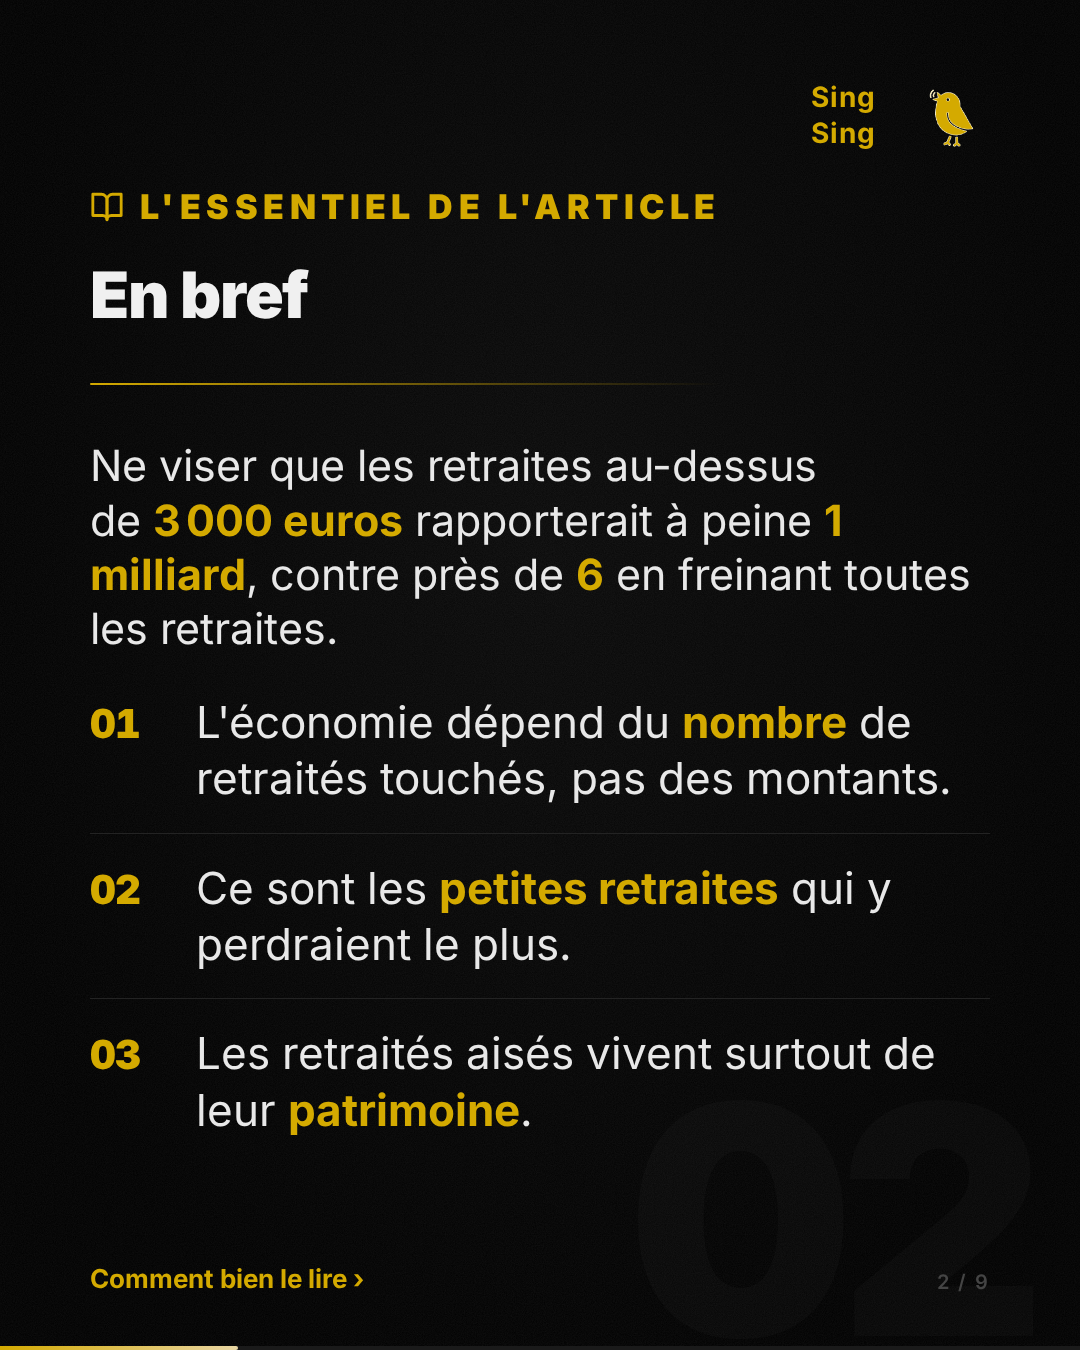
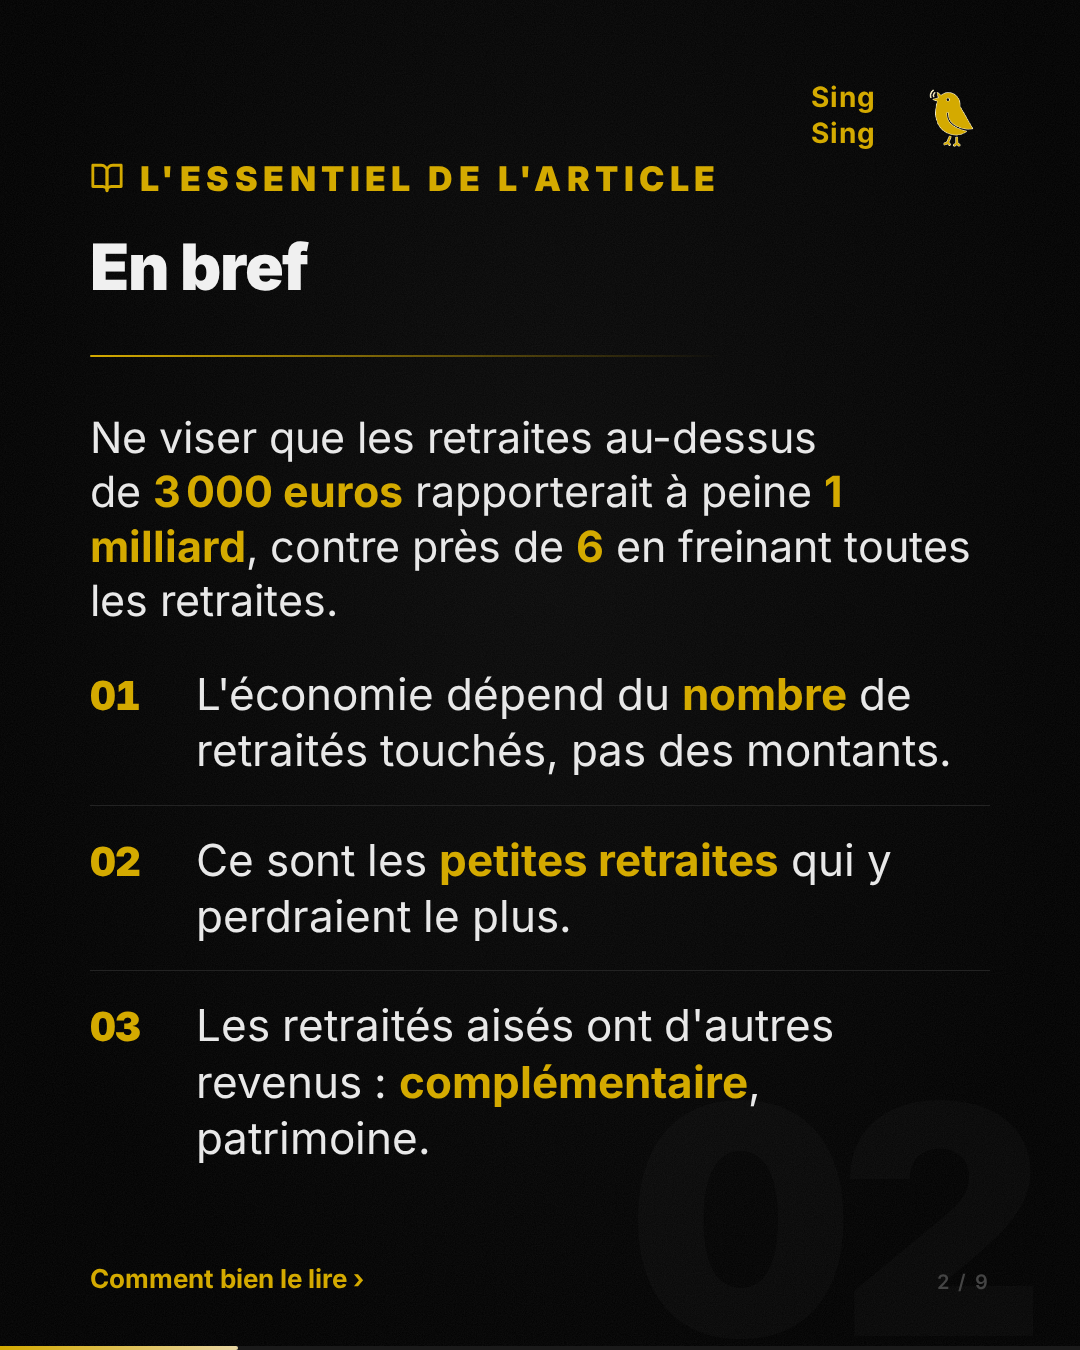
chore(samples): article_12 — grammar on slide 8, and slide 2 back on the article
Three copy fixes the user caught on the rendered slides:

- slide 8: a single « dans quelle proportion » cannot govern two complements.
  The parallel « quelle part … et quelle part … » is correct and keeps the
  question a matter of dosage rather than an exclusive or.
- slide 5: « les aisés » is not French — « les retraités aisés ».
- slide 2: « les retraités aisés vivent surtout de leur patrimoine » is not what
  the article says — they count first on the complémentaire, patrimoine on top.
  We had dropped the complémentaire while making the slide plainer, and the
  model review flagged the bend across three runs. Slide 5 already said it
  correctly, so the two slides now agree.

diff --git a/samples/articles/article_12/instagram_carousel_optimized/html/02_essentiel.html b/samples/articles/article_12/instagram_carousel_optimized/html/02_essentiel.html
@@ -440,7 +440,7 @@ body {
     <div class="divider"></div>
     <p class="lede">Ne viser que les retraites au-dessus de <strong>3 000 euros</strong> rapporterait à peine <strong>1 milliard</strong>, contre près de <strong>6</strong> en freinant toutes les retraites.</p>
     <div class="pts">
-      <div class="pt"><span class="pt-n">01</span><span class="pt-t">L&#39;économie dépend du <strong>nombre</strong> de retraités touchés, pas des montants.</span></div><div class="pt"><span class="pt-n">02</span><span class="pt-t">Ce sont les <strong>petites retraites</strong> qui y perdraient le plus.</span></div><div class="pt"><span class="pt-n">03</span><span class="pt-t">Les retraités aisés vivent surtout de leur <strong>patrimoine</strong>.</span></div>
+      <div class="pt"><span class="pt-n">01</span><span class="pt-t">L&#39;économie dépend du <strong>nombre</strong> de retraités touchés, pas des montants.</span></div><div class="pt"><span class="pt-n">02</span><span class="pt-t">Ce sont les <strong>petites retraites</strong> qui y perdraient le plus.</span></div><div class="pt"><span class="pt-n">03</span><span class="pt-t">Les retraités aisés ont d&#39;autres revenus : <strong>complémentaire</strong>, patrimoine.</span></div>
     </div>
   </div>
   <div class="next-hook-bar"><span style="color: #d4aa00; font-weight: 700;">Comment bien le lire &#8250;</span></div>

diff --git a/samples/articles/article_12/instagram_carousel_optimized/html/05_moment.html b/samples/articles/article_12/instagram_carousel_optimized/html/05_moment.html
@@ -457,7 +457,7 @@ body {
     
     <div class="evidence"><p class="ev-quote">«&#160;une sous-indexation appliquée aux régimes de base touche […] davantage les catégories de niveau de vie modeste que […] une hausse des cotisations&#160;»</p></div>
     <p class="watch"><svg viewBox="0 0 24 24"><path d="M17.9 17.9A10 10 0 0 1 12 20c-7 0-11-8-11-8a18.4 18.4 0 0 1 5-5.9M9.9 4.2A9 9 0 0 1 12 4c7 0 11 8 11 8a18.5 18.5 0 0 1-2.2 3.2m-6.7-1.1a3 3 0 1 1-4.2-4.2"/><line x1="1" y1="1" x2="23" y2="23"/></svg><span class="wtxt">Un effort annoncé : qui le paie vraiment ?</span></p>
-    <div class="reveal"><span class="arw">&#8594;</span><p class="rev">Le régime de base fait <strong>deux tiers</strong> de la retraite des modestes ; les aisés vivent surtout de leur complémentaire et de leur patrimoine.</p></div>
+    <div class="reveal"><span class="arw">&#8594;</span><p class="rev">Le régime de base fait <strong>deux tiers</strong> de la retraite des modestes ; les retraités aisés vivent surtout de leur complémentaire et de leur patrimoine.</p></div>
   </div>
   <div class="slide-num">5 / 9</div>
   <div class="progress-track"><div class="progress-bar" style="width: 56%;"></div></div>

diff --git a/samples/articles/article_12/instagram_carousel_optimized/html/08_prise_de_recul.html b/samples/articles/article_12/instagram_carousel_optimized/html/08_prise_de_recul.html
@@ -448,7 +448,7 @@ body {
     <div class="q-item">
       <div class="q-head"><span class="mk"><svg viewBox="0 0 24 24"><path d="M21 15a2 2 0 0 1-2 2H7l-4 4V5a2 2 0 0 1 2-2h14a2 2 0 0 1 2 2z"/></svg></span><span class="q-label">La question</span></div>
       <div class="r-list">
-        <div class="r-item"><span class="rk">&#8250;</span><span>Dans quelle proportion l&#39;effort doit-il porter sur ce que l&#39;on gagne, et sur ce que l&#39;on possède ?</span></div>
+        <div class="r-item"><span class="rk">&#8250;</span><span>Quelle part de l&#39;effort doit porter sur ce que l&#39;on gagne, et quelle part sur ce que l&#39;on possède ?</span></div>
       </div>
     </div>
   </div>
